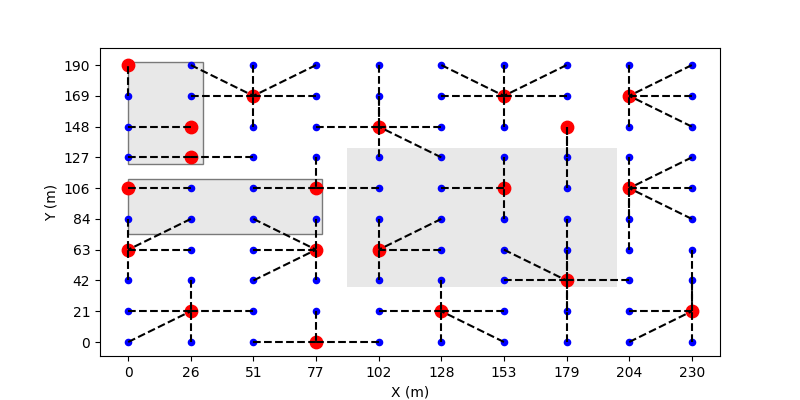
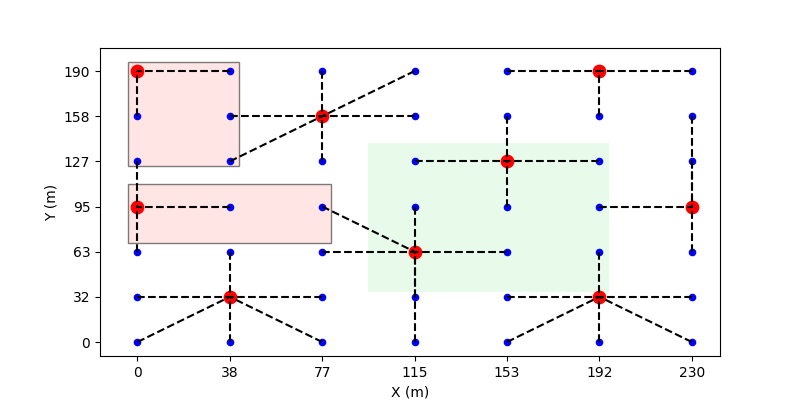
update.

diff --git a/src/figures_generator.py b/src/figures_generator.py
@@ -12,9 +12,9 @@ def gerar_figura(x_matriz, y_matriz, equipamentos, coberturas):
 
     fig, ax = plt.subplots(figsize=(8, 4))
 
-    rect1 = Rectangle((1, 6.8), 1.2, 3.3, linewidth=1, edgecolor='black', facecolor='lightgrey', alpha=0.5)
-    rect2 = Rectangle((1, 4.5), 3.1, 1.8, linewidth=1, edgecolor='black', facecolor='lightgrey', alpha=0.5)
-    rect3 = Rectangle((4.5, 2.8), 4.3, 4.5, linewidth=1, edgecolor='none', facecolor='lightgrey', alpha=0.5)
+    rect1 = Rectangle((0.9, 6.8), 1.2, 3.5, linewidth=1, edgecolor='black', facecolor='#FFCCCB', alpha=0.5)
+    rect2 = Rectangle((0.9, 4.5), 3.2, 1.8, linewidth=1, edgecolor='black', facecolor='#FFCCCB', alpha=0.5)
+    rect3 = Rectangle((4.5, 2.8), 4.3, 4.5, linewidth=1, edgecolor='none', facecolor='#D3F9D8', alpha=0.5)
     ax.add_patch(rect1)
     ax.add_patch(rect2)
     ax.add_patch(rect3)
@@ -73,9 +73,9 @@ if __name__ == '__main__':
     #coberturas = [1, 1, 1, 3, 9, 10, 1, 12, 9, 9, 10, 10, 12, 12, 9, 10, 21, 18, 18, 18, 21, 21, 21, 18, 18]
 
     #Solução ótima para a instância 49_9
-    #rect1 = Rectangle((1, 4.9), 1.1, 2.1, linewidth=1, edgecolor='black', facecolor='lightgrey', alpha=0.5)
-    #rect2 = Rectangle((1, 3.2), 2.2, 1.3, linewidth=1, edgecolor='black', facecolor='lightgrey', alpha=0.5)
-    #rect3 = Rectangle((3.5, 2.1), 2.6, 3.3, linewidth=1, edgecolor='none', facecolor='lightgrey', alpha=0.5)
+    #rect1 = Rectangle((0.9, 4.9), 1.2, 2.3, linewidth=1, edgecolor='black', facecolor='#FFCCCB', alpha=0.5)
+    #rect2 = Rectangle((0.9, 3.2), 2.2, 1.3, linewidth=1, edgecolor='black', facecolor='#FFCCCB', alpha=0.5)
+    #rect3 = Rectangle((3.5, 2.1), 2.6, 3.3, linewidth=1, edgecolor='none', facecolor='#D3F9D8', alpha=0.5)
     #x_matriz = 7
     #y_matriz = 7
     #equipamentos = [0, 0, 0, 1, 0, 0, 1, 0, 1, 0, 0, 0, 0, 0, 0, 0, 0, 0, 0, 1, 0, 0, 0, 1, 0, 0, 0, 0, 0, 0, 0, 0, 1, 0, 0, 0, 1, 0, 0, 0, 0, 1, 0, 0, 0, 1, 0, 0, 0]
